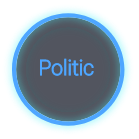
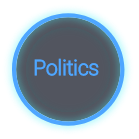
few changes

Changed region(s): [[0.2302, 0.4029, 0.7194, 0.5468]]

diff --git a/css/styles.css b/css/styles.css
@@ -1822,13 +1822,19 @@ G10
     .pageSubCont .pageSubWrapper {
         width: 785px;
     }
+
     .pageSubWrapper .searchCont {
         width: 70%;
     }
+
     .pageSubWrapper .table {
         width: 70%;
         margin-right:auto;
         margin-left:auto;
+    }
+
+    .categoryWrap .edu, .categoryWrap .career, .categoryWrap .politics {
+        width: 30%;
     }
 
 }

diff --git a/css/styles-eng.css b/css/styles-eng.css
@@ -1829,6 +1829,10 @@ a {
         margin-left: auto;
     }
 
+    .categoryWrap .edu, .categoryWrap .career, .categoryWrap .politics {
+        width: 30%;
+    }
+
 }
 
 @media only screen and (max-width: 640px) and (min-width: 470px) {
